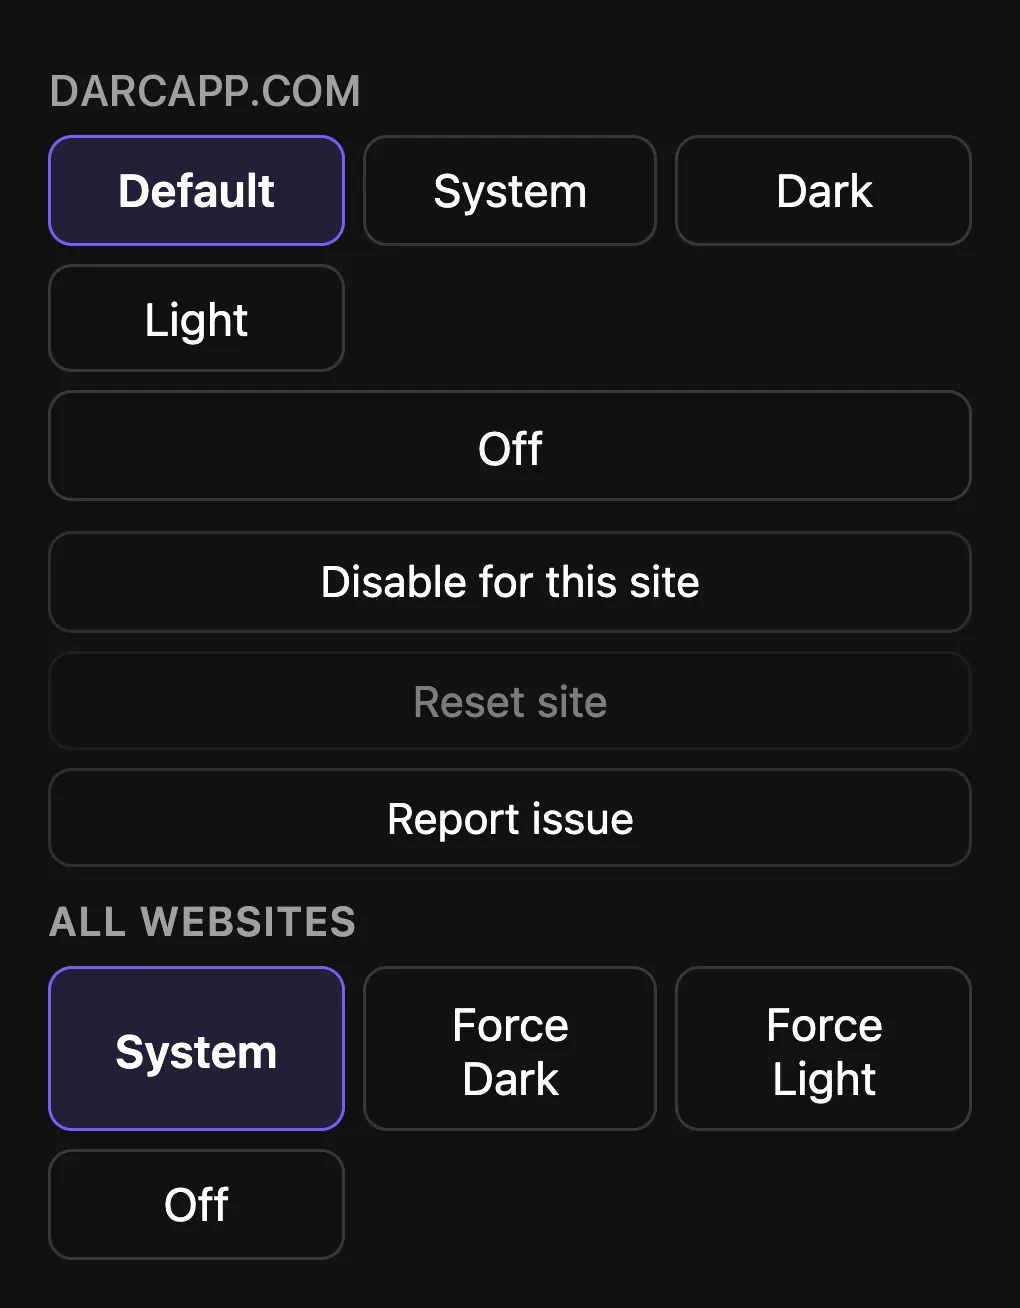
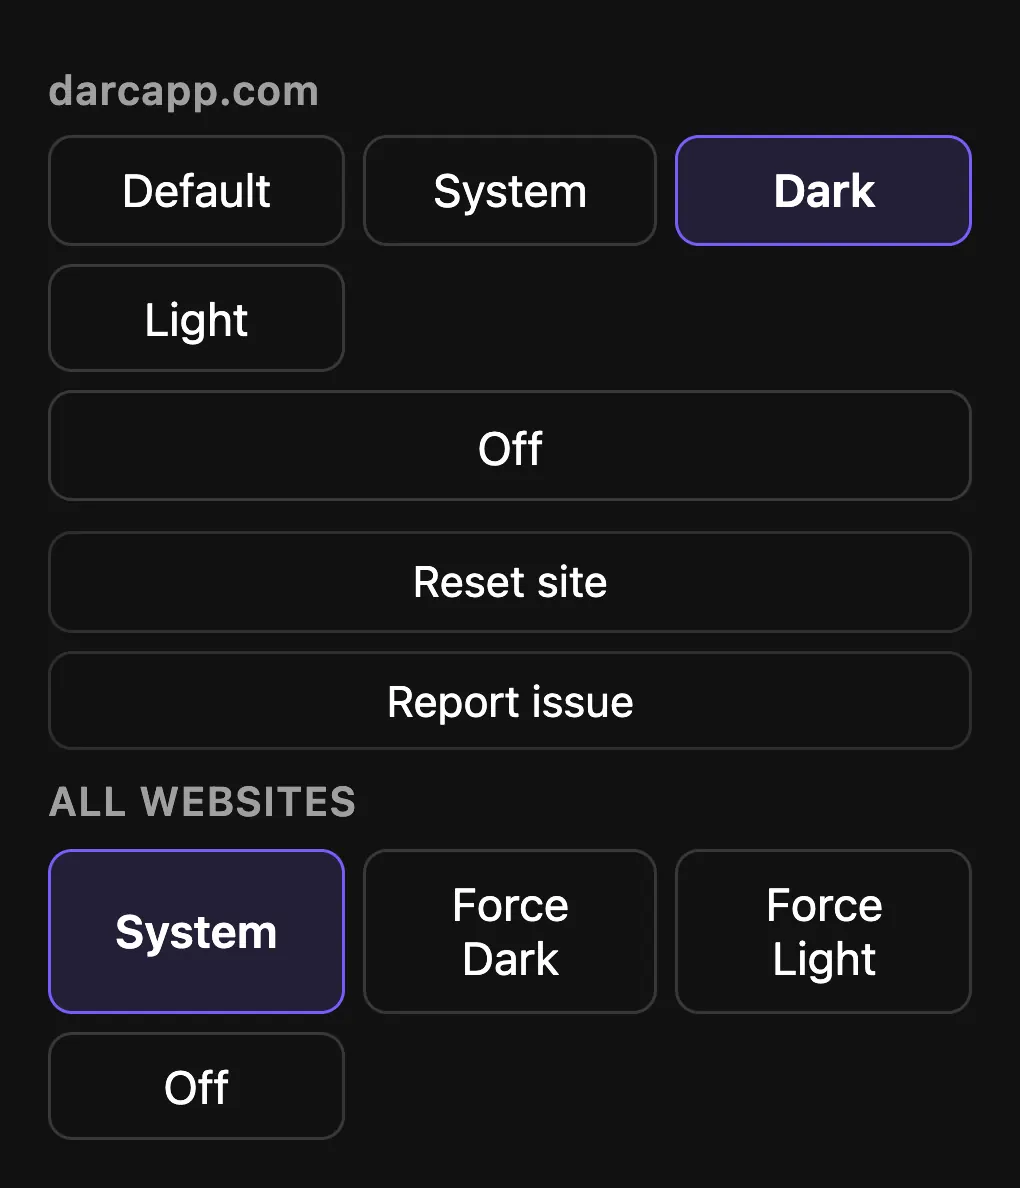
Describe the current Darc popup on the site and support page - Disable for this site was removed; Off, Reset site, paused and subdomain rules are what users see now
Claude-Session: https://claude.ai/code/session_012BByYWCmiS8D389Ae3qgvo

diff --git a/support.html b/support.html
@@ -91,15 +91,15 @@
             </ol>
 
             <h2 id="site-looks-wrong">A site looks wrong</h2>
-            <p>Open the site in Safari and tap or click Darc’s button in the toolbar. The menu has three options for the site you are on:</p>
+            <p>Open the site in Safari and tap or click Darc’s button in the toolbar. The menu starts with the site’s name and its modes. <strong>Default</strong> follows what you chose for all websites. <strong>System</strong>, <strong>Dark</strong> and <strong>Light</strong> give the site its own rule. <strong>Off</strong> leaves the site untouched, and you can change it back from the same menu or the Sites tab in the app. Under the modes are two buttons:</p>
             <ul>
-                <li><strong>Reset site</strong> removes the rule for that site, including its fine-tuning and media settings, so it follows your global settings again.</li>
-                <li><strong>Disable for this site</strong> tells Darc to leave the site untouched from then on. You can change it back from the same menu or the Sites tab in the app.</li>
+                <li><strong>Reset site</strong> removes the rule for that site, including its fine-tuning and media settings, so it follows your setting for all websites again.</li>
                 <li><strong>Report issue</strong> opens a pre-filled email in your mail app. It contains the site’s host name (not the full address), the mode and engine Darc used, whether Darc found the site already dark, the Darc version and the platform. Nothing is sent unless you send the email yourself.</li>
             </ul>
+            <p>On a subdomain, such as m.example.com, the menu may say it uses the rule for example.com. The modes then change that rule. If the menu says your rule for a site is paused, the free version is not applying it: it keeps your 3 oldest site rules active and pauses the rest. Reset site removes a paused rule, and Darc Forever turns it back on.</p>
             <figure class="doc-figure">
-                <picture><source type="image/avif" srcset="/img/popup-menu-340.avif 340w, /img/popup-menu-680.avif 680w, /img/popup-menu-1020.avif 1020w" sizes="300px"><img src="/img/popup-menu-680.webp" srcset="/img/popup-menu-340.webp 340w, /img/popup-menu-680.webp 680w, /img/popup-menu-1020.webp 1020w" sizes="300px" width="1020" height="1308" alt="Darc's menu from Safari's toolbar on the sample page at darcapp.com: modes for this site, then Disable for this site, Reset site and Report issue, then the modes for all websites." loading="lazy" decoding="async"></picture>
-                <figcaption>Darc’s menu for a site, with the three options in the middle.</figcaption>
+                <picture><source type="image/avif" srcset="/img/popup-menu-340.avif 340w, /img/popup-menu-680.avif 680w, /img/popup-menu-1020.avif 1020w" sizes="300px"><img src="/img/popup-menu-680.webp" srcset="/img/popup-menu-340.webp 340w, /img/popup-menu-680.webp 680w, /img/popup-menu-1020.webp 1020w" sizes="300px" width="1020" height="1188" alt="Darc's menu from Safari's toolbar on darcapp.com: the modes Default, System, Dark, Light and Off for this site, then Reset site and Report issue, then System, Force Dark, Force Light and Off for all websites." loading="lazy" decoding="async"></picture>
+                <figcaption>Darc’s menu for a site: its modes, then Reset site and Report issue, then the modes for all websites.</figcaption>
             </figure>
             <p>If theming goes wrong on a page, for example text that becomes hard to read, Darc removes what it added and the page goes back to how the site built it.</p>
             <p>A short white flash when a page starts loading comes from Safari, which paints its own placeholder before the page exists. No extension can restyle that placeholder.</p>

diff --git a/index.html b/index.html
@@ -236,7 +236,7 @@
                     </details>
                     <details>
                         <summary>A site looks broken. What now?</summary>
-                        <div class="answer"><p>Tap Darc’s button in Safari’s toolbar. Reset site clears that site’s rule. Disable for this site leaves it untouched from now on. Report issue opens an email with the site’s name, the mode and your Darc version. Nothing is sent unless you press send. <a href="/support.html#site-looks-wrong">More on the support page</a>.</p></div>
+                        <div class="answer"><p>Tap Darc’s button in Safari’s toolbar. Off under the site’s name leaves that site untouched. Reset site clears its rule. Report issue opens an email with the site’s name, the mode and your Darc version. Nothing is sent unless you press send. <a href="/support.html#site-looks-wrong">More on the support page</a>.</p></div>
                     </details>
                     <details>
                         <summary>Will my photos look like negatives?</summary>

diff --git a/_tools/build_media.py b/_tools/build_media.py
@@ -42,11 +42,8 @@ ADDRESS_PAD = 6
 ADDRESS_SAMPLE = 30
 DEMO_HOST = "darcapp.com"
 SAFARI_CAPTURES = {"article_orig.png", "article_dark.png", "c_talk.png", "forum_orig.png", "forum_light.png"}
-# The toolbar menu capture names the site in its header, uppercase and tracked.
-POPUP_CAPTURE = "popup.png"
-POPUP_INK_BOX = (49, 75, 460, 105)
-POPUP_OLD_LABEL = "THEDAILYWEB.COM"
-POPUP_PAD = 4
+# The toolbar menu (popup.png) is the shipped popup code rendered in headless Chrome at 3x with
+# stand-in extension APIs, and the stand-in tab is already darcapp.com, so it needs no repaint.
 FRAMED_WIDTHS = (360, 600, 900)
 
 # Unframed screens: the before/after pairs sit under the live frame overlay on the page.
@@ -80,8 +77,6 @@ def clean(image):
 
 def repaint_host(image, source):
     """Swap the 'localhost' address bar label for the sample site's host."""
-    if source == POPUP_CAPTURE:
-        return repaint_popup_host(image)
     if source not in SAFARI_CAPTURES:
         return image
     host = DEMO_HOST
@@ -108,40 +103,6 @@ def repaint_host(image, source):
     repainted = Image.fromarray(pixels)
     x = (x0 + x1) / 2 - (box[2] - box[0]) / 2 - box[0]
     ImageDraw.Draw(repainted).text((x, y0 - reference[1]), host, font=font, fill=colour)
-    return repainted.convert(mode)
-
-
-def tracked_width(font, text, tracking):
-    return sum(font.getlength(ch) for ch in text) + tracking * (len(text) - 1)
-
-
-def repaint_popup_host(image):
-    """The menu header shows the host in tracked capitals; redraw it as DARCAPP.COM."""
-    mode = image.mode
-    canvas = image.convert("RGBA")
-    pixels = np.array(canvas)
-    x0, y0, x1, y1 = POPUP_INK_BOX
-    ink = pixels[y0:y1 + 1, x0:x1 + 1, :3].astype(int)
-    ground = np.median(pixels[y0 - 20:y0 - 10, x0:x1, :3].reshape(-1, 3), axis=0)
-    row, col = np.unravel_index(np.abs(ink - ground).sum(axis=2).argmax(), ink.shape[:2])
-    colour = tuple(int(c) for c in ink[row, col]) + (255,)
-    pixels[y0 - POPUP_PAD:y1 + POPUP_PAD + 1, x0 - POPUP_PAD:x1 + POPUP_PAD + 1, :3] = ground.round()
-    size = 30
-    while True:
-        font = ImageFont.truetype(FONT, size)
-        font.set_variation_by_name("Semibold")
-        top, bottom = font.getbbox("H")[1], font.getbbox("H")[3]
-        if bottom - top >= y1 - y0 + 1:
-            break
-        size += 1
-    natural = tracked_width(font, POPUP_OLD_LABEL, 0)
-    tracking = ((x1 - x0 + 1) - natural) / (len(POPUP_OLD_LABEL) - 1)
-    repainted = Image.fromarray(pixels)
-    draw = ImageDraw.Draw(repainted)
-    x = x0 - font.getbbox(DEMO_HOST.upper()[0])[0]
-    for ch in DEMO_HOST.upper():
-        draw.text((x, y0 - top), ch, font=font, fill=colour)
-        x += font.getlength(ch) + tracking
     return repainted.convert(mode)
 
 
